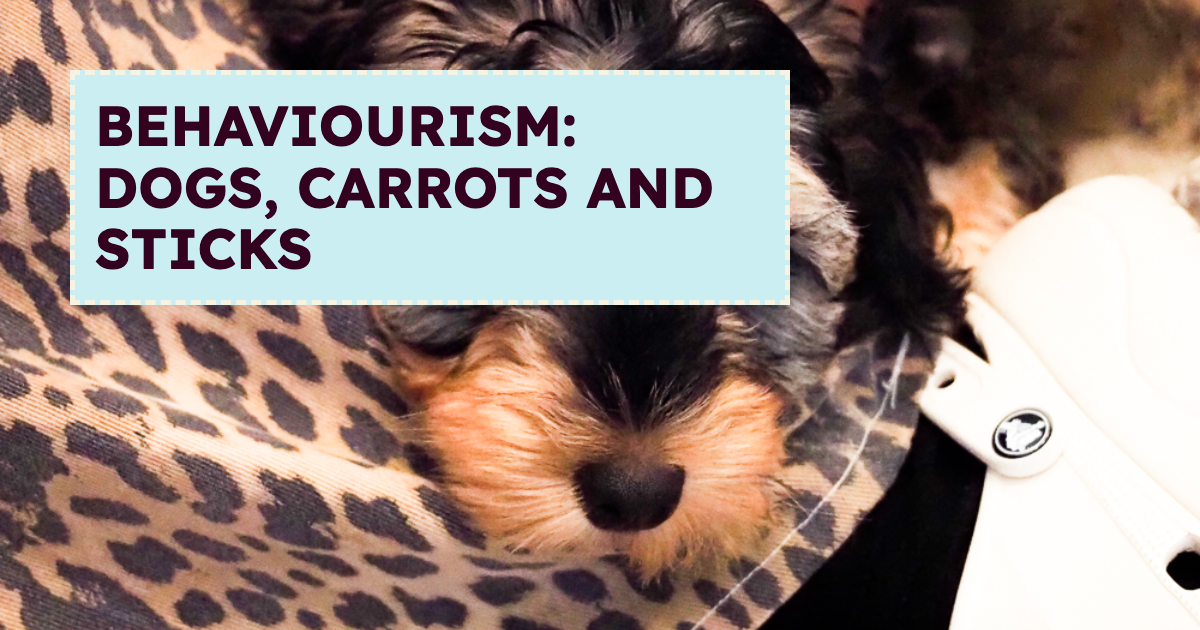
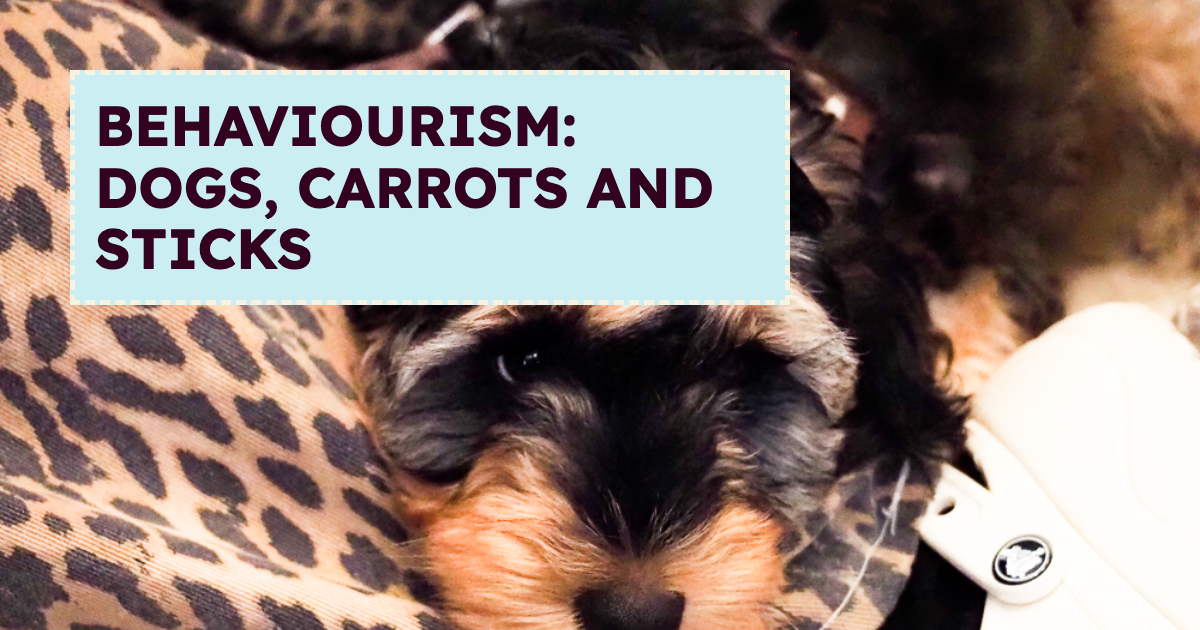
update puppy pics

diff --git a/src/content/posts/behaviourism-dogs-carrots-sticks.md b/src/content/posts/behaviourism-dogs-carrots-sticks.md
@@ -15,7 +15,7 @@ tags:
   - Ned
 ---
 
-I was digging into Behaviourism as part of my studies earlier today. It’s the school of thought that treats learning as a change in observable behaviour, triggered by external stimuli. Think of it as the "physics" of learning—action and reaction. These are common concepts, but it was interesting to rip them apart in the classroom. It also gave me a great excuse to share this picture of my mate’s new puppy, Ned (I love him).
+I was digging into Behaviourism as part of my studies earlier today. It’s the school of thought that treats learning as a change in observable behaviour, triggered by external stimuli. Think of it as the "physics" of learning—action and reaction. These are common concepts, but it was interesting to rip them apart in the classroom. It also gave me a great excuse to share some picture of my mate’s new puppy, Ned (I love him).
 
 ![A very good puppy named Ned sitting patiently, the ultimate example of positive reinforcement.](../../assets/uploaded_images/ned-FULL.jpg)
 
@@ -35,3 +35,5 @@ Carrots and sticks feel like simple tools to employ, but where there are consequ
 - **Beyond the Classroom:** This stuff isn't restricted to learning design. The way these mechanics show up in the DNA of organisations and teams is fascinating. We can probably all list experiences where a poorly designed "incentive" actually broke the culture it was trying to fix or just plainly disregarded the outcome - I think we see this play out in the implementation of gov policy all the time. Good intentions meet ill-thought out delivery (often because of time & budget constraints or just message decay as it works its way through the system).
 
 We often mistake compliance for commitment. Behaviorism can give you the former, but if we want the latter we need to look beyond the simple physics of stimulus and response.
+
+![More Ned action. What a handsome hound.](../../assets/uploaded_images/ned2-FULL.jpg)
